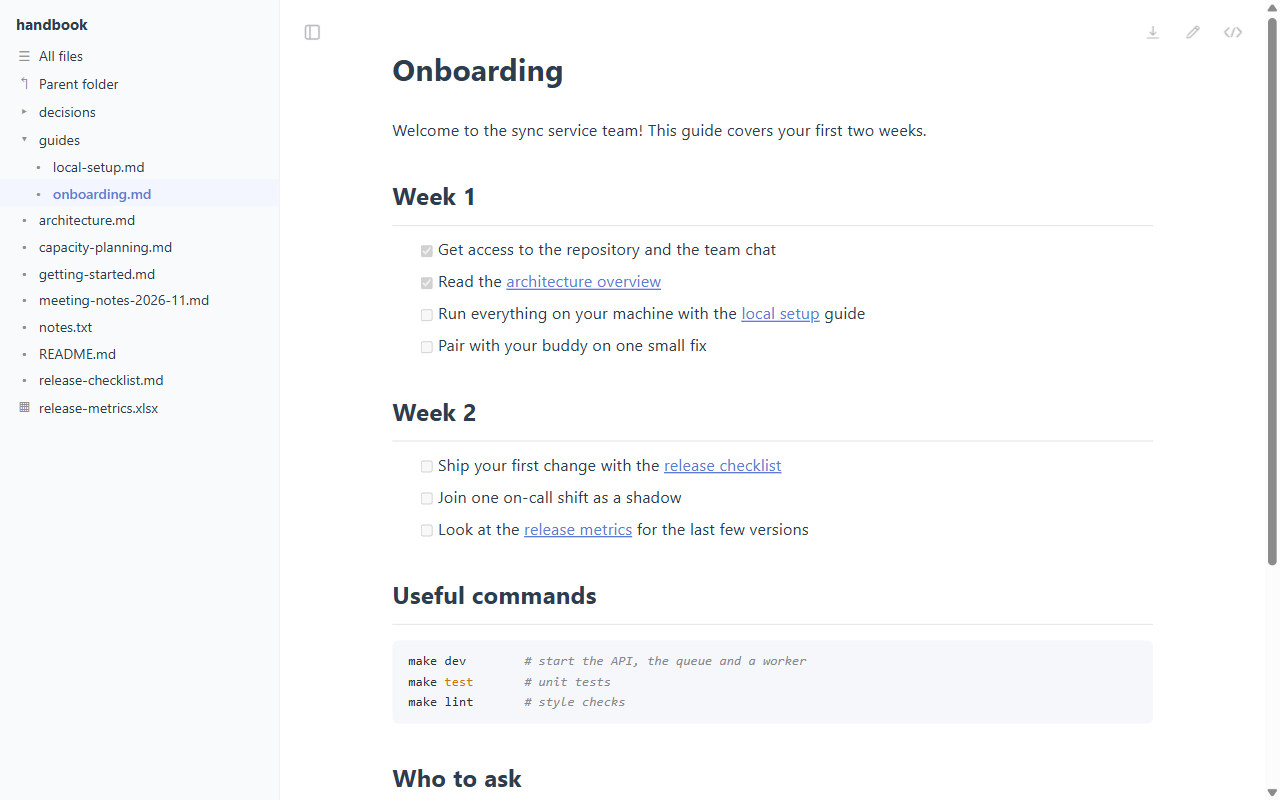
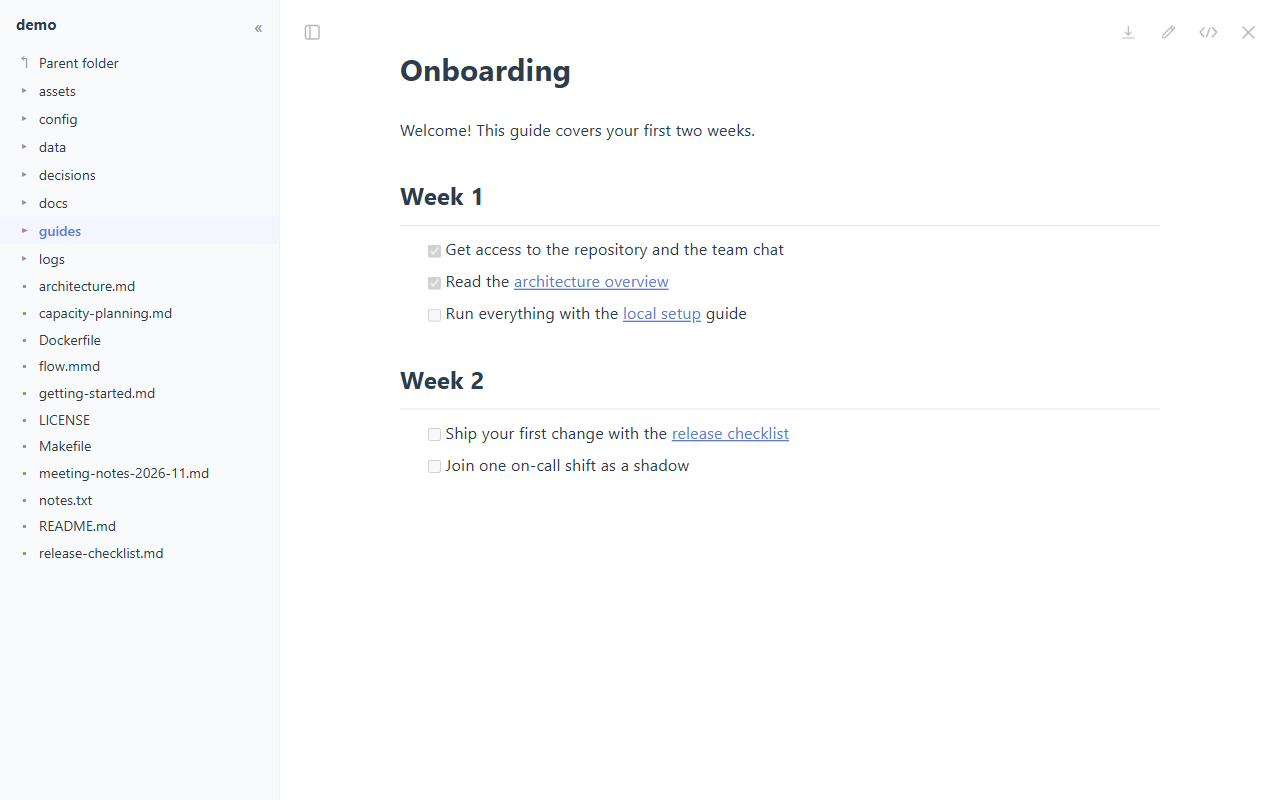
AnyRead MD 1.3.0
- Version 1.3.0 (package.json, manifest).
- release-notes/v1.3.0.md: Word and PowerPoint, data and settings files,
  the two-column folder page, hidden files, Close (Esc), the left column,
  math forms, the Files tab, links in new tabs, and the fixes.
- Store screenshot 3 is the new two-column folder page (made-up demo
  content, English interface); the store listing names the data and
  settings files.

diff --git a/release-notes/v1.3.0.md b/release-notes/v1.3.0.md
@@ -1,0 +1,58 @@
+## 新增
+
+- **Word 與 PowerPoint**：`.docx`、`.pptx` 不再只能下載。文件裡的連結會在右邊分割畫面顯示內容，「在新分頁開啟」、資料夾頁、側邊欄「檔案」會開在表格頁（一樣有「下載」）。Word 顯示標題、段落、清單、表格、超連結、圖片、註腳；PowerPoint 每張投影片依序顯示標題、項目文字、表格、圖片和講者備註，隱藏的投影片會標出來。只看內容，不重現排版；不支援舊的 `.doc`、`.ppt`。
+- **資料與設定檔**：不用在設定頁加，就能看 JSON（`.json` 會自動排版）、JSONC、JSON5、JSON Lines、GeoJSON、YAML、TOML、INI、`.properties`、`.env`、`.log`，以及依檔名認得的 `.gitignore`、`.editorconfig`、`.npmrc`、`Dockerfile`、`Makefile`、`LICENSE` 等，都會上色。超過 1 MB 的檔案只顯示前 1 MB，並註明全長。
+- **資料夾頁改成兩欄**：右邊是目前資料夾的檔案清單（或你點開的檔案），左邊是上一層，目前的資料夾會標出來。在右邊點資料夾往下一層；左邊的 `▸` 就地展開，「上一層資料夾」兩欄一起往上。瀏覽器的上一頁、下一頁會一步一步回去。資料夾頁一律先顯示檔案清單，不再自動打開 README。
+- **顯示隱藏檔**：資料夾頁可以勾選「顯示隱藏檔」，列出 `.` 開頭的檔案和資料夾（會記住，側邊欄「檔案」也一樣）。
+- **關閉 (Esc)**：資料夾頁右邊的檔案和表格右上角有「關閉」，或按 `Esc`，回到檔案清單（開著分割畫面時，`Esc` 先關分割畫面）。
+- **左欄可以收起來**：資料夾頁左欄標題旁的 `«` 收起左欄，讓右邊和分割畫面更寬（會記住），`»` 再打開。
+- **公式**：除了 `$…$`、`$$…$$`，也支援 GitHub 的 ` ```math ` 區塊和 `` $`…`$ ``。
+- **側邊欄「檔案」**：點資料夾名稱開它的資料夾頁（按住 `Ctrl` 開在新分頁），點前面的 `▸` 就地展開；最上面的資料夾名稱也能點。
+
+## 修正
+
+- 連到其他網站的連結開在新分頁，正在看的文件留著。連到本機其他檔案（圖片、PDF、資料夾）的連結也一樣，照 README 原本的說明。
+- 側邊欄「檔案」按 `↑` 會停在磁碟最上層，不會再跑到空白、回不來的 `file:///`。
+- 重新整理資料夾頁時，不再先閃一下 Chrome 原本的檔案列表。
+- 其他網頁用框架嵌入的 `.md`、`.txt` 照原樣顯示，AnyRead MD 只在自己的資料夾頁裡作用。
+- `pnpm build` 產生的 zip 改名為 `anyread-md-<版本>.zip`，跟分享用的 zip 一致。
+
+## 給開發者
+
+- `pnpm demo` 產生一份虛構的團隊手冊，每個功能一個例子，可以直接試用。
+- `pnpm test:e2e` 是瀏覽器測試（第一次會下載 Chrome for Testing），也支援無畫面的 Linux。
+- 每次 commit 會自動檢查是否含有個人或敏感資料。
+
+## 下載
+
+- `anyread-md-1.3.0.zip`：手動安裝用，安裝方式見 README。
+- `anyread-md-1.3.0-store.zip`：上傳 Chrome 線上應用程式商店用。
+
+---
+
+### English
+
+**New**
+
+- **Word and PowerPoint**: `.docx` and `.pptx` files are no longer download-only. Links to them show their content in the pane; "Open in a new tab", the folder page and the Files tab open them on the table page (with Download). Word shows headings, paragraphs, lists, tables, links, pictures and footnotes; PowerPoint shows each slide in order with its title, text, tables, pictures and speaker notes, hidden slides marked. The content only, not the layout; the older `.doc` and `.ppt` are not supported.
+- **Data and settings files**: without adding them in Settings, JSON (`.json` pretty-printed), JSONC, JSON5, JSON Lines, GeoJSON, YAML, TOML, INI, `.properties`, `.env` and `.log` files are shown highlighted, as are files known by name such as `.gitignore`, `.editorconfig`, `.npmrc`, `Dockerfile`, `Makefile` and `LICENSE`. A file over 1 MB shows its first 1 MB, with its full size noted.
+- **Two-column folder page**: the main column lists the current folder (or shows the file you picked), the left column the folder above, with the current folder marked. A folder in the main column opens one level down; `▸` on the left opens a folder in place, and "Parent folder" moves both columns up. The browser's Back and Forward step through it all. The folder page always opens on its file list; a README is no longer opened by itself.
+- **Show hidden files**: a box on the folder page lists files and folders whose names start with `.` (remembered; the side bar's Files tab follows it).
+- **Close (Esc)**: a file or table on the right of the folder page has Close at its top right, or press `Esc`, to go back to the file list (with the pane open, `Esc` closes that first).
+- **The left column hides**: `«` next to its name hides it for a wider file and pane (remembered); `»` brings it back.
+- **Math**: besides `$…$` and `$$…$$`, GitHub's ` ```math ` blocks and `` $`…`$ ``.
+- **Side bar Files tab**: a folder's name opens its folder page (`Ctrl`+click: a new tab), the `▸` in front opens it in place, and the folder name at the top is a link too.
+
+**Fixed**
+
+- Links to other web sites open in a new tab, so the document stays; links to other local files (pictures, PDF, folders) do too, as the README already said.
+- `↑` in the Files tab stops at the top of the drive instead of an empty `file:///` with no way back.
+- Reloading the folder page no longer flashes Chrome's own listing.
+- `.md` and `.txt` files framed by other pages stay as they are; AnyRead MD works in frames only on its own folder page.
+- `pnpm build` names its zip `anyread-md-<version>.zip`, like the shareable one.
+
+**For developers**
+
+- `pnpm demo` writes a made-up team handbook with an example of every feature, to try by hand.
+- `pnpm test:e2e` runs the browser tests (Chrome for Testing is downloaded once), also on Linux without a display.
+- Every commit is checked for personal or sensitive data.

diff --git a/store/listing.md b/store/listing.md
@@ -42,6 +42,7 @@ READ
 • Links to other Markdown files open in a pane on the right, next to what you are reading; drag the divider to resize it, go back and forward, or open the file in this tab or a new one
 • CSV and Excel (.xlsx) files show as tables, in the pane or on a table page with a Download button (Chrome would only download them)
 • Word (.docx) and PowerPoint (.pptx) files show their text: headings, lists, tables and pictures, and each slide with its speaker notes
+• JSON (pretty-printed), YAML, TOML, INI, .env and log files, and .gitignore, Dockerfile, Makefile and similar, shown highlighted
 • .txt files, code files and Mermaid diagrams (.mmd) open in the pane too
 • Font size, text width, line height and your own CSS
 • Export to PDF (print) or to a single HTML file
@@ -110,6 +111,7 @@ AnyRead MD 讓 Markdown 檔案在 Chrome 裡直接變成乾淨好讀的頁面，
 • 連到其他 Markdown 檔的連結會在右半邊開啟，原本的文件留在左邊；可拖曳中間的分隔線調整寬度、回上一個 / 下一個，或改在這個分頁、新分頁開啟
 • CSV 和 Excel（.xlsx）檔顯示成表格，在右半邊或表格頁打開，表格頁有「下載」按鈕（Chrome 原本只會直接下載）
 • Word（.docx）和 PowerPoint（.pptx）檔顯示內容：標題、清單、表格、圖片，簡報每張投影片連同講者備註
+• JSON（自動排版）、YAML、TOML、INI、.env、log，以及 .gitignore、Dockerfile、Makefile 這類檔案，上色顯示
 • .txt、程式碼檔和 Mermaid 圖（.mmd）也能在右半邊打開
 • 可調整字體大小、內容寬度、行距，也能加自己的 CSS
 • 匯出成 PDF（列印）或單一 HTML 檔
